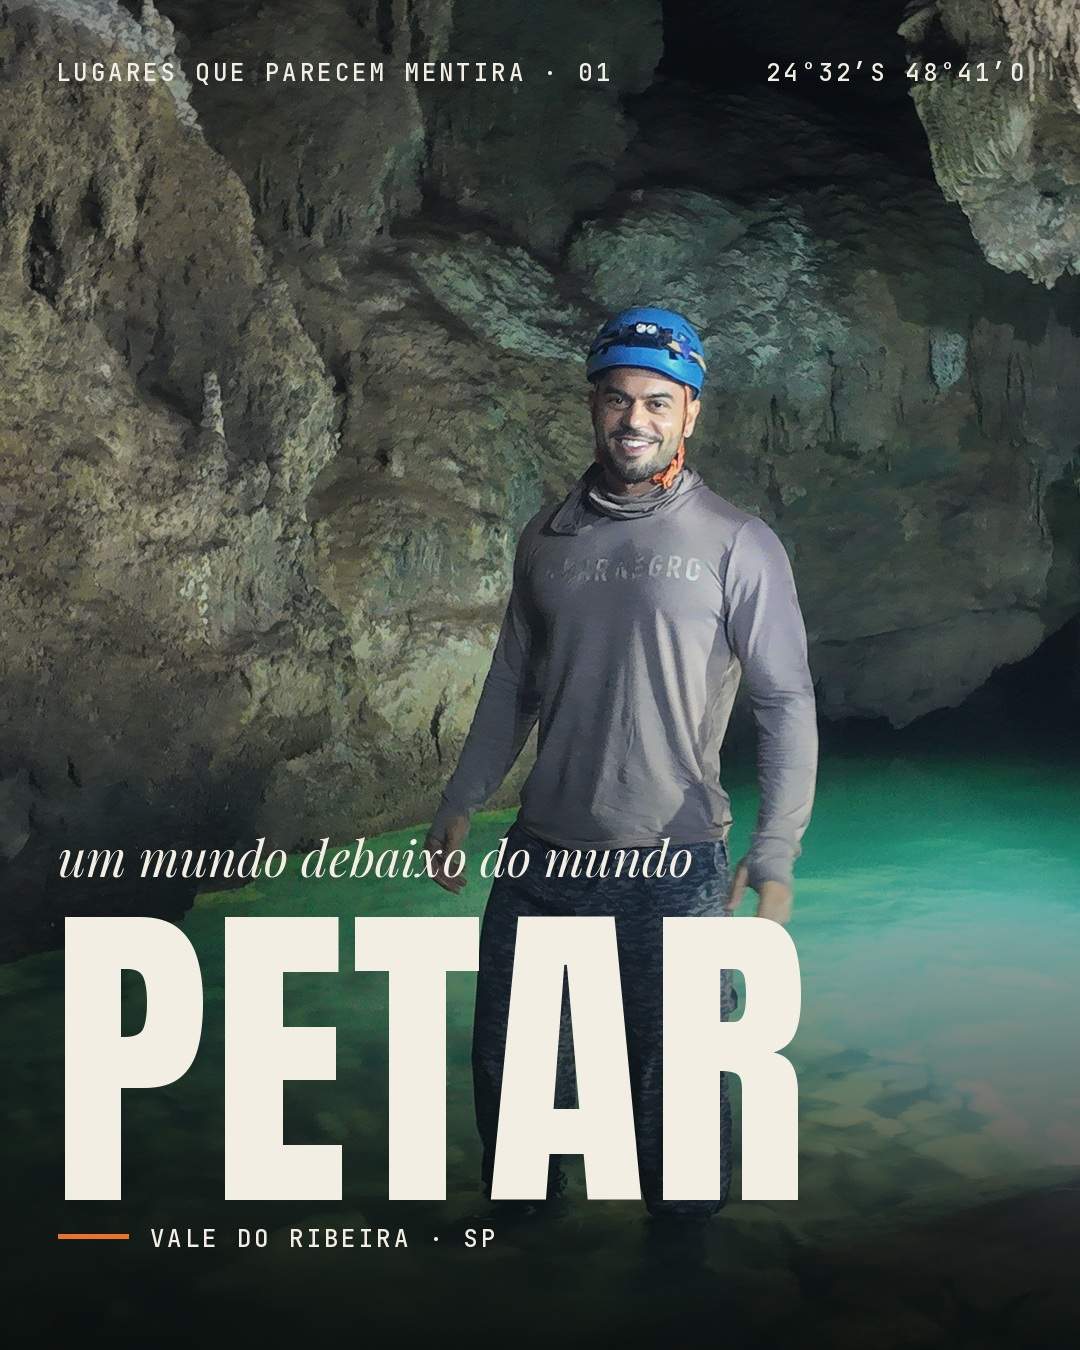
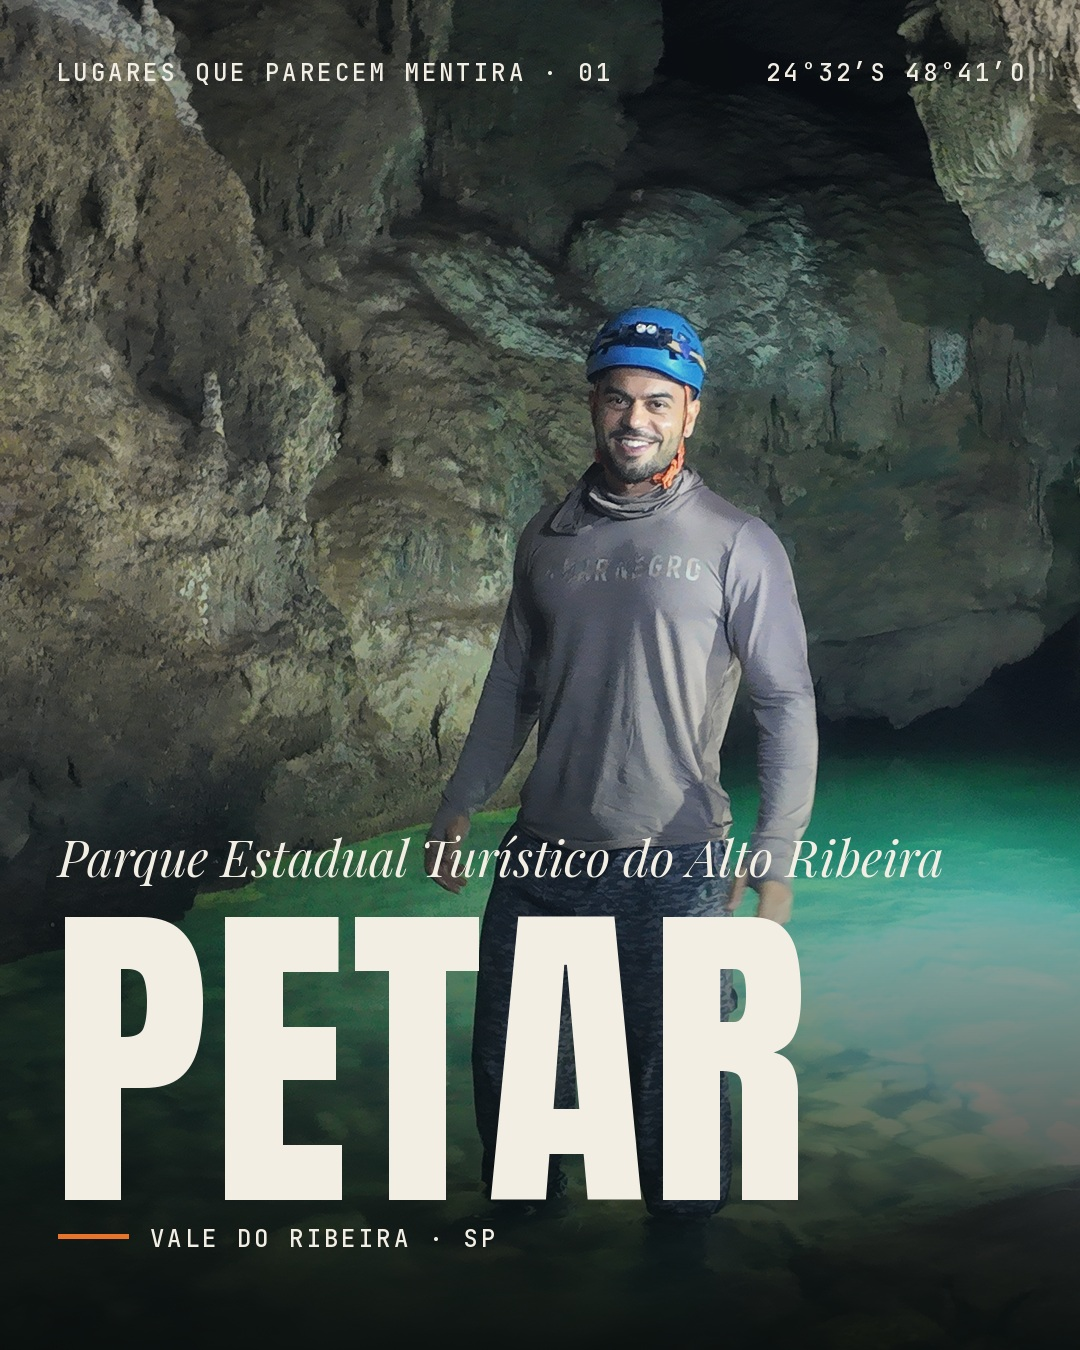
Textos científicos nas lâminas e legendas do Petar e El Tatio; regra de visitação com foto de lanterna
Claude-Session: https://claude.ai/code/session_01JEWNugoXXnmVSroetB1RFu

Changed region(s): [[0.0611, 0.6222, 0.8861, 0.6533]]

diff --git a/marcas/guilherme-rodrigues/aprendizados.md b/marcas/guilherme-rodrigues/aprendizados.md
@@ -8,3 +8,4 @@
 | 24/11/2026 | Petar v3 | Não quer fotos dele **sozinho** misturadas nos carrosséis Subterrâneo e Expedição; o casal se beijando na boca da caverna (WA1674/WA1711) **não é ele**; pediu **mais fotos de grupo** | Sim: carrosséis 2 e 3 sem fotos solo; conferir sempre quem é antes de usar foto de casal |
 | 24/11/2026 | Post cavernas v1 | Explicação da formação estava simplificada (só chuva); no PETAR os **rios (recarga alogênica)** são o agente principal. Pediu **linguagem técnica e séria**, sem brincadeira, e **informação correta** | Sim: posts educativos com fonte técnica (Karmann & Ferrari, SIGEP/USP) e tom técnico |
 | 24/11/2026 | El Tatio v1 | Perguntou se as informações eram mesmo do El Tatio; pediu **localização (país, região, distâncias)** e **legenda com bastante informação técnica** | Sim: separar o que é específico do lugar do que é física geral, sempre com lâmina "Onde fica" e legenda longa por tópicos |
+| 25/11/2026 | Textos das lâminas | Não quer tom subjetivo ("a mata ferve", "cabe um prédio"); quer textos **científicos, certeiros e sérios**. Regra de visitação do PETAR: monitor credenciado + capacete, lanterna, calça comprida e roupa de manga, com a foto dele de lanterna | Sim: rótulos técnicos ("Espeleotemas", "Hidrologia") no lugar de "Você sabia?" |

diff --git a/marcas/guilherme-rodrigues/regras.md b/marcas/guilherme-rodrigues/regras.md
@@ -10,3 +10,4 @@
 - Curiosidades nas fotos: só fatos verificáveis (placa, fonte oficial). Na dúvida, não escreve.
 - Não usar o clichê "onde o GPS termina" nas peças.
 - Posts educativos: tom técnico e sério, sem gírias ou brincadeiras; todo dado com fonte técnica citada na legenda e numa lâmina de referências.
+- Textos nas lâminas e legendas: científicos, objetivos e sem frases subjetivas ou de efeito. Rótulo da lâmina = nome do tema técnico.
